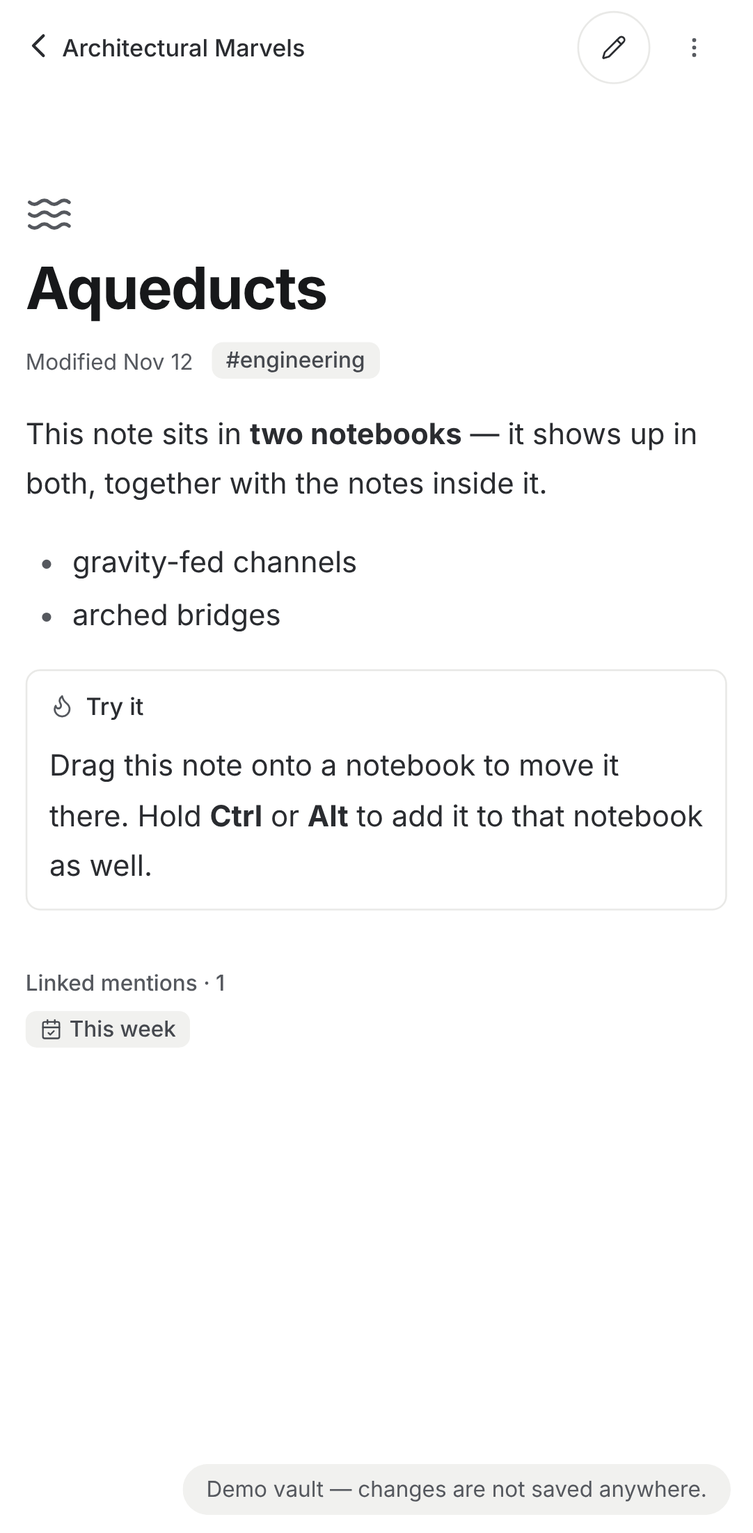
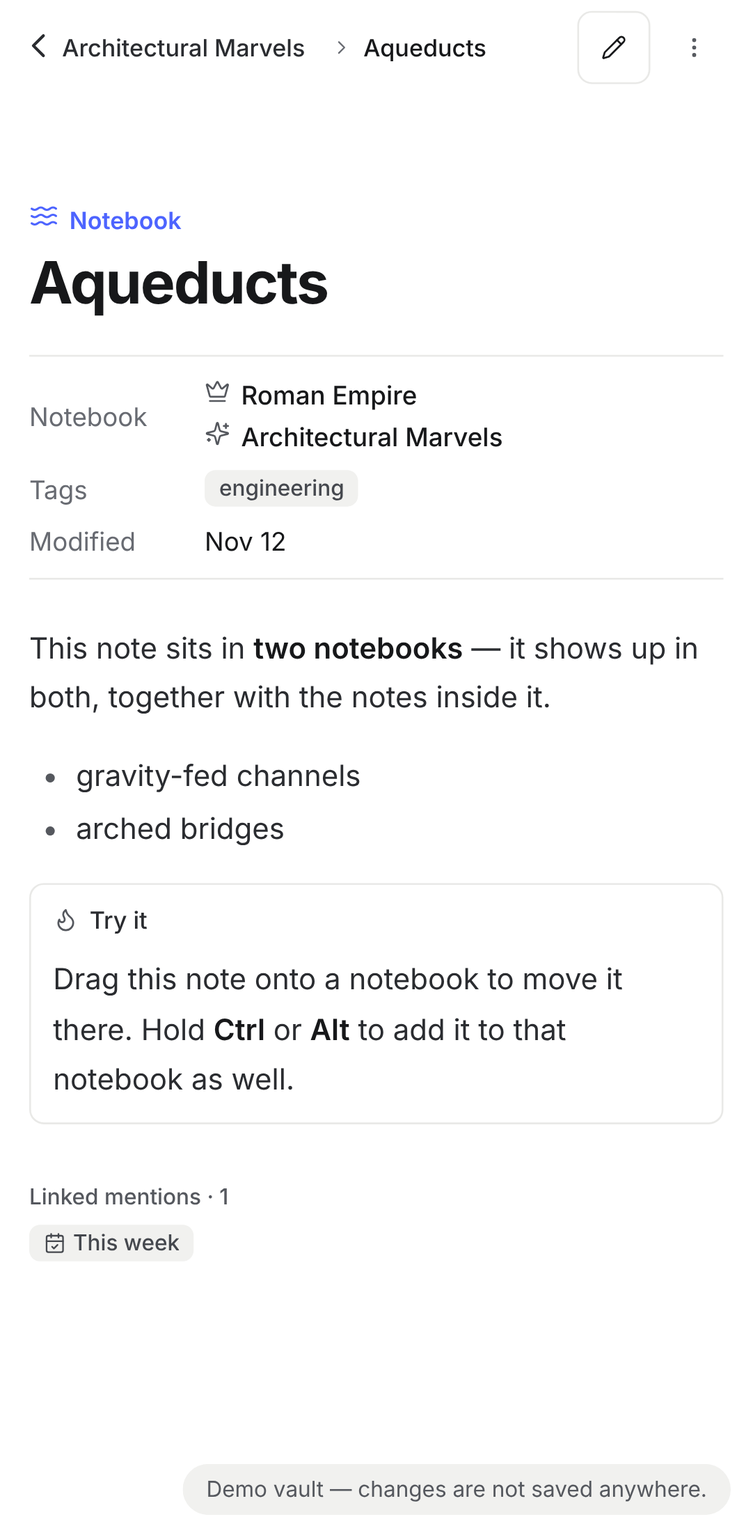
Restyle stage 6: the note
Over the title, what the note is (Note, Notebook or Daily note) in the
accent with its icon; a click picks another icon, as the big icon did.
The title is 40px bold (32px on a phone). Reading shows the note's facts
under it between two hairlines: its notebook, its tags, its tasks done
as a bar and words, when it changed. The header's path ends with the
note's own name, its crumbs split by chevrons; Edit and the +N chip get
the controls' corners. Headings track tighter, bold is 600 in the ink,
inline code sits on a quiet plate. The page is 720px with 40px on top.

Tests: the title is 40px; the path is read by its links; reading checks
the facts' rows; a new test covers the type label and the tasks bar.

Claude-Session: https://claude.ai/code/session_01FMk1W3xjGAnUwDM3D7HQLZ

diff --git a/web/src/css/app.css b/web/src/css/app.css
@@ -143,8 +143,11 @@ button.clickable-icon.wb-icon:hover { background: var(--hover-bg); color: var(--
 .sn-editor-path > a { min-width: 1.5em; overflow: hidden; text-overflow: ellipsis; white-space: nowrap; }
 a.sn-editor-crumb { color: var(--muted); text-decoration: none; }
 a.sn-editor-crumb:hover { color: var(--ink); text-decoration: underline; }
-.sn-editor-crumb-sep { flex: none; padding: 0 var(--sp-4); color: var(--faint); }
-button.sn-editor-places { flex: none; height: 20px; margin-left: var(--sp-4); padding: 0 var(--sp-8); border: 0; border-radius: var(--r-pill); background: var(--panel); color: var(--muted); font-size: var(--fs-sm); font-variant-numeric: tabular-nums; cursor: pointer; }
+.sn-editor-crumb-sep { flex: none; display: inline-flex; align-self: center; padding: 0 var(--sp-4); color: var(--faint); }
+.sn-editor-crumb-sep svg { width: var(--icon-xs); height: var(--icon-xs); }
+/* the note itself, last in the path: plain, in the ink, the first to give way (restyle RS-36) */
+.sn-editor-self { flex: 0 8 auto; min-width: 1.5em; overflow: hidden; text-overflow: ellipsis; white-space: nowrap; color: var(--ink); font-weight: var(--fw-medium); }
+button.sn-editor-places { flex: none; height: 20px; margin-left: var(--sp-4); padding: 0 var(--sp-8); border: 0; border-radius: var(--r-xs); background: var(--panel); color: var(--muted); font-size: var(--fs-sm); font-variant-numeric: tabular-nums; cursor: pointer; }
 button.sn-editor-places:hover { background: var(--accent-soft); color: var(--accent); }
 /* a phone: "‹ Its notebook" instead of the path, the ×, and "+N" (which moves into ⋮) */
 a.sn-editor-back { display: none; min-width: 0; align-items: center; gap: var(--sp-2); margin-left: calc(var(--sp-6) * -1); padding: var(--sp-4) var(--sp-8) var(--sp-4) var(--sp-2); border-radius: var(--r-s); color: var(--fg); font-weight: var(--fw-medium); text-decoration: none; }
@@ -158,7 +161,7 @@ a.sn-editor-back:active { background: var(--hover-bg); }
 /* the note reads at 16px in a column of about 75 characters (600px of text inside the padding) */
 /* the note's one labelled action: Edit while reading, Done (blue) while editing (editor.js) */
 button.sn-mode-btn { flex: none; display: inline-flex; align-items: center; gap: var(--sp-6); height: var(--ctl-l); margin: 0 var(--sp-2) 0 var(--sp-6); padding: 0 var(--sp-12) 0 var(--sp-10);
-  border: 1px solid var(--line); border-radius: var(--r-pill); background: var(--win); color: var(--fg); font-size: var(--fs-ui); font-weight: var(--fw-medium); cursor: pointer; }
+  border: 1px solid var(--line); border-radius: var(--r-s); background: var(--win); color: var(--ink); font-size: var(--fs-ui); font-weight: var(--fw-medium); cursor: pointer; }
 button.sn-mode-btn:hover { background: var(--hover-bg); }
 button.sn-mode-btn svg { display: block; width: var(--icon-s); height: var(--icon-s); } /* a block, so the icon sits in the middle, not on the text's baseline */
 button.sn-mode-btn.is-editing { border-color: transparent; background: var(--cta); color: var(--on-accent); }
@@ -166,15 +169,24 @@ button.sn-mode-btn.is-editing:hover { background: var(--cta-hover); }
 @container (max-width: 640px) { button.sn-mode-btn { width: 30px; padding: 0; justify-content: center; } .sn-mode-label { display: none; } }
 /* reading keeps the room of the editing toolbar above the note, so its title stays put when editing starts */
 .sn-editor.is-read .sn-editor-scroll { padding-top: var(--ed-toolbar-h, var(--ctl-touch)); } /* until a toolbar is measured, its min-height (writing.css) */
-/* reading: one quiet line under the title in place of Properties, and no rule between it and the text (editor-toolbar.js infoLine) */
-.sn-info { display: flex; flex-wrap: wrap; align-items: center; gap: var(--sp-6); min-height: 22px; margin: calc(var(--sp-4) * -1) 0 var(--sp-16); font-size: var(--fs-sm); color: var(--muted); }
-.sn-info-date { margin-right: var(--sp-4); }
+/* reading: the note's facts under the title, a key and its value on each line between two hairlines (editor-toolbar.js infoLine, restyle RS-41) */
+.sn-facts { display: grid; grid-template-columns: 120px minmax(0, 1fr); row-gap: var(--sp-10); align-items: center; margin: 0 0 var(--sp-24); padding: var(--sp-12) 0; border-block: 1px solid var(--line); font-size: var(--fs-md); }
+.sn-facts dt { color: var(--faint); }
+.sn-facts dd { margin: 0; display: flex; flex-wrap: wrap; align-items: center; gap: var(--sp-6) var(--sp-10); min-width: 0; color: var(--ink); }
+a.sn-facts-place { display: inline-flex; align-items: center; gap: var(--sp-6); min-width: 0; color: var(--ink); font-weight: var(--fw-medium); text-decoration: none; }
+a.sn-facts-place:hover { text-decoration: underline; }
+a.sn-facts-place svg { flex: none; width: var(--icon-s); height: var(--icon-s); color: var(--muted); }
+/* the tasks done: a bar of 96px, the accent for the part done, beside the words */
+.sn-facts-bar { display: flex; width: 96px; height: 6px; border-radius: var(--r-pill); background: var(--sel); overflow: hidden; }
+.sn-facts-bar > span { border-radius: var(--r-pill); background: var(--cta); }
+@media (max-width: 820px) { .sn-facts { grid-template-columns: 96px minmax(0, 1fr); } }
 .sn-props-head, .sn-editor-foot h4 { font-size: var(--fs-sm); font-weight: var(--fw-medium); color: var(--muted); }
 /* a table being read keeps the room editing leaves on its right for "+ column" (writing.css .sn-table-host), so it doesn't widen and re-split its columns */
 .sn-reading:not(.sn-live) .sn-table-wrap { margin-right: 17px; }
 
 /* Rendered Markdown: black bold headings, grey quotes, monospace code */
-.markdown-rendered :is(h1, h2, h3, h4, h5, h6) { color: var(--ink); letter-spacing: -.01em; }
+.markdown-rendered :is(h1, h2, h3, h4, h5, h6) { color: var(--ink); font-weight: var(--fw-bold); letter-spacing: var(--ls-head); }
+.markdown-rendered :is(strong, b) { color: var(--ink); font-weight: var(--fw-semibold); }
 .markdown-rendered :is(ul, ol) li::marker { color: var(--muted); }
 .markdown-rendered a:where(:not(.tag)) { color: var(--accent); }
 /* the grey chip is for inline code only: inside a code block the text sits on the block itself */
@@ -295,7 +307,7 @@ button.sn-row-enter:hover, .sn-row:focus-visible button.sn-row-enter { backgroun
   .sn-main { grid-column: 1; }
     .sn-editor.win { margin-top: 0; border-radius: 0; border: 0; } /* the note over the board fills the screen */
   .sn-page { padding: var(--sp-12) var(--sp-14) var(--sp-48); }
-  .sn-editor-page { padding: var(--sp-12) var(--sp-14) 40vh; }
+  .sn-editor-page { padding: var(--sp-16) var(--sp-16) 40vh; }
 }
 
 /* ---------- Touch screens: a bottom bar on phones, and targets a finger can hit */
@@ -323,6 +335,8 @@ button.sn-row-enter:hover, .sn-row:focus-visible button.sn-row-enter { backgroun
   /* (the table + buttons are already absolute, under and beside the table: making them relative piled them up in a corner) */
   :is(button.task-box, .sn-chip) { position: relative; }
   :is(button.task-box)::after { content: ""; position: absolute; inset: -10px; }
+  button.sn-kind { position: relative; }
+  button.sn-kind::after { content: ""; position: absolute; inset: -10px -4px; }
   :is(.sn-table-add-row, .sn-table-add-col)::after { content: ""; position: absolute; inset: -14px; }
   .sn-chip::after { content: ""; position: absolute; inset: -8px -2px; }
   /* buttons a finger can hit: 40px at least, the drawing inside them as it was (spec UI-9) */

diff --git a/web/src/js/ui/editor-toolbar.js b/web/src/js/ui/editor-toolbar.js
@@ -12,7 +12,8 @@ import { $, h, ic, isMod, setIcon } from "./dom.js";
 import { Menu } from "./ui.js";
 import { addTags, fmTagList, promptAddParent, promptIcon, removeParent, removeTag, templateFor } from "./actions.js";
 import { formatDate, parentChip } from "./cards.js";
-import { openTagView } from "./board.js";
+import { openTagView, setTarget } from "./board.js";
+import { cardTaskProgress } from "../services/tasks.js";
 import { closeEditor, openEditor, renderEditor, saveEditor } from "./editor.js";
 import { liveActivateEnd } from "./live-preview.js";
 import { editorTable, editorTableKey, editorTableOp, tableMenu } from "./table-editor.js";
@@ -108,15 +109,26 @@ export function renderEditorProps() {
     foot.append(box);
   }
 }
-/** The reading view's line under the title, in place of Properties: when the note changed, its tags (each opens its list)
-   and a notebook it names that doesn't exist. Its notebooks are in the header; the rest of the properties are one click
-   away, in the editing view. */
+/** The reading view's facts under the title, in place of Properties (restyle RS-41 to RS-43): where the note sits (its
+   notebooks, each opening its list, and a notebook it names that doesn't exist), its tags (each opens its list), its tasks
+   done and when it changed. A row with nothing to say is left out; the rest of the properties are in the editing view. */
 function infoLine(path, n) {
-  const line = h("div", { cls: "sn-info" });
-  line.append(h("span", { cls: "sn-info-date", text: t("modifiedAt", { date: formatDate(n.mtime || 0) }), title: new Date(n.mtime || 0).toLocaleString(LANG) }));
-  for (const u of graph.unresolvedParentsOf(path)) line.append(h("span", { cls: "sn-chip is-s is-missing", title: t("parentMissing") }, ic("sn-chip-icon", "alert-triangle"), h("span", { text: u })));
-  if (!n.fmError) for (const tg of fmTagList(n.fm)) line.append(h("button", { cls: "sn-chip is-s sn-info-tag", type: "button", text: "#" + tg, onClick: () => openTagView(tg) }));
-  return line;
+  const dl = h("dl", { cls: "sn-facts" });
+  const row = (key, ...val) => dl.append(h("dt", { text: key }), h("dd", {}, ...val));
+  const parents = graph.parentsOf(path).filter((p) => graph.has(p)), missing = graph.unresolvedParentsOf(path);
+  const place = (p) => h("a", { cls: "sn-facts-place", href: "#", onClick: (e) => { e.preventDefault(); setTarget(p); } }, ic("", p ? cardIcon(p) || "folder" : "home", "folder"), h("span", { text: p ? baseName(p) : t("allCards") }));
+  row(t("factNotebook"), ...(parents.length || missing.length ? parents.map(place) : [place(null)]),
+    ...missing.map((u) => h("span", { cls: "sn-chip is-s is-missing", title: t("parentMissing") }, ic("sn-chip-icon", "alert-triangle"), h("span", { text: u }))));
+  const tags = n.fmError ? [] : fmTagList(n.fm);
+  if (tags.length) row(t("factTags"), ...tags.map((tg) => h("button", { cls: "sn-chip is-s sn-facts-tag", type: "button", text: tg, onClick: () => openTagView(tg) })));
+  const prog = cardTaskProgress(path);
+  if (prog) {
+    const bar = h("span", { cls: "sn-facts-bar", "aria-hidden": "true" }, h("span", {}));
+    bar.firstChild.style.width = Math.round((prog.done / prog.n) * 100) + "%";
+    row(t("factTasks"), bar, h("span", { text: t("factDone", prog) }));
+  }
+  row(t("factModified"), h("span", { text: formatDate(n.mtime || 0), title: new Date(n.mtime || 0).toLocaleString(LANG) }));
+  return dl;
 }
 export function editorKeys(e) {
   const ta = e.target;

diff --git a/web/src/js/core/strings.js b/web/src/js/core/strings.js
@@ -13,7 +13,8 @@ export const STR = {
     icon: "Icon",
     composerPlaceholder: "Start typing a new note…", composerHint: "Enter — create · Shift+Enter — new line · the first line becomes the title",
     cardsCount: ["{n} note", "{n} notes"], listKindNotebook: "Notebook", listKindTag: "Tag", listKindSearch: "Search", listNotes: "Notes",
-    rowTasks: ["{done}/{n} task", "{done}/{n} tasks"], cardsOf: "{shown} of {n}", filteredSuffix: "{count} · filtered",
+    rowTasks: ["{done}/{n} task", "{done}/{n} tasks"], kindNote: "Note", kindNotebook: "Notebook", kindDaily: "Daily note",
+    factNotebook: "Notebook", factTags: "Tags", factTasks: "Tasks", factModified: "Modified", factDone: "{done} of {n} done", cardsOf: "{shown} of {n}", filteredSuffix: "{count} · filtered",
     parentMissing: "Parent note not found",
     noCards: "No notes here yet — start typing to create one.", noMatches: "No notes match the filter.",
     repeatsSkipped: ["{n} repeated note is hidden (several parents or a cycle)", "{n} repeated notes are hidden (several parents or a cycle)"],
@@ -96,7 +97,8 @@ export const STR = {
     icon: "Иконка",
     composerPlaceholder: "Начните печатать новую заметку…", composerHint: "Enter — создать · Shift+Enter — новая строка · первая строка станет заголовком",
     cardsCount: ["{n} заметка", "{n} заметки", "{n} заметок"], listKindNotebook: "Блокнот", listKindTag: "Тег", listKindSearch: "Поиск", listNotes: "Заметки",
-    rowTasks: ["{done}/{n} задача", "{done}/{n} задачи", "{done}/{n} задач"], cardsOf: "{shown} из {n}", filteredSuffix: "{count} · фильтр",
+    rowTasks: ["{done}/{n} задача", "{done}/{n} задачи", "{done}/{n} задач"], kindNote: "Заметка", kindNotebook: "Блокнот", kindDaily: "Заметка дня",
+    factNotebook: "Блокнот", factTags: "Теги", factTasks: "Задачи", factModified: "Изменено", factDone: "{done} из {n} выполнено", cardsOf: "{shown} из {n}", filteredSuffix: "{count} · фильтр",
     parentMissing: "Родительская заметка не найдена",
     noCards: "Здесь пока нет заметок — начните печатать, чтобы создать.", noMatches: "Нет заметок под фильтр.",
     repeatsSkipped: ["{n} повтор скрыт (несколько родителей или цикл)", "{n} повтора скрыто (несколько родителей или цикл)", "{n} повторов скрыто (несколько родителей или цикл)"],

diff --git a/web/src/js/ui/editor.js b/web/src/js/ui/editor.js
@@ -166,13 +166,14 @@ function notebookPath(path) {
   const back = h("a", { cls: "sn-editor-back", href: "#", title: nearName, onClick: (e) => { e.preventDefault(); closeEditor(); setTarget(near); } },
     ic("", "chevron-left"), h("span", { text: nearName }));
   places.forEach((p, i) => {
-    if (i) box.append(h("span", { cls: "sn-editor-crumb-sep", text: "/" }));
+    if (i) box.append(ic("sn-editor-crumb-sep", "chevron-right"));
     const name = p ? baseName(p) : t("allCards");
     const a = h("a", { cls: "sn-editor-crumb", href: "#", text: name, title: name, onClick: (e) => { e.preventDefault(); setTarget(p); } });
     a.style.flexShrink = String((places.length - i) * 4);
     box.append(a);
   });
-  const wrap = h("div", { cls: "sn-editor-where" }, back, box);
+  // then the note's own name, plain and last: it gives way first when the header is narrow (restyle RS-36)
+  const wrap = h("div", { cls: "sn-editor-where" }, back, box, ic("sn-editor-crumb-sep sn-editor-self-sep", "chevron-right"), h("span", { cls: "sn-editor-self", text: baseName(path) }));
   if (others.length) {
     wrap.append(h("button", { cls: "sn-editor-places", type: "button", title: t("alsoIn"), text: "+" + others.length, onClick: (e) => {
       const m = new Menu();
@@ -260,11 +261,10 @@ export function renderEditor() {
   if (!n) { page.append(h("div", { cls: "sn-editor-empty", text: t("noteGone") })); return; }
 
   if (editor.mode !== "source") {
-    const badge = ic("sn-editor-badge", cardIcon(path) || "file-text", "file-text");
-    if (!cardIcon(path)) badge.style.opacity = ".45";
-    badge.title = t("menuIcon");
-    badge.addEventListener("click", () => promptIcon([path]));
-    page.append(badge);
+    // what the note is, in the accent over its title: a notebook (it holds notes), a daily note, or a note. Its icon
+    // leads, and a click picks another (restyle RS-39)
+    const kind = graph.childrenOf(path).length ? t("kindNotebook") : path.startsWith("daily notes/") ? t("kindDaily") : t("kindNote");
+    page.append(h("button", { cls: "sn-kind", type: "button", title: t("menuIcon"), onClick: () => promptIcon([path]) }, ic("", cardIcon(path) || "file-text", "file-text"), h("span", { text: kind })));
     const title = h("textarea", { cls: "sn-inline-title", rows: "1", spellcheck: "false" });
     title.value = baseName(path);
     const growT = () => { title.style.height = "auto"; title.style.height = title.scrollHeight + "px"; };

diff --git a/web/src/css/base.css b/web/src/css/base.css
@@ -36,8 +36,8 @@ body {
   --fw-regular: 400; --fw-medium: 500; --fw-semibold: 600; --fw-bold: 700;
   /* line heights: headings and titles, the interface, a note's text */
   --lh-tight: 1.25; --lh-ui: 1.5; --lh-text: 1.7;
-  /* tracking: headings at 24px and the list's title */
-  --ls-head: -0.02em;
+  /* tracking: headings at 24px and the list's title; the page's title (a note's, the agenda's), with its size and line */
+  --ls-head: -0.02em; --ls-title: -0.025em; --fs-title: 40px; --lh-title: 1.15;
   /* the spacing scale, named by its size in pixels: every padding, margin and gap uses it (besides 0, 1px hairlines
      and the few measured offsets listed in tests/architecture.test.mjs) */
   --sp-2: 2px; --sp-4: 4px; --sp-6: 6px; --sp-8: 8px; --sp-10: 10px; --sp-12: 12px; --sp-14: 14px; --sp-16: 16px;
@@ -86,6 +86,8 @@ body {
   font-variant-ligatures: none;
   overflow: hidden;
 }
+/* the page's title is 32px on a phone (restyle RS-40) */
+@media (max-width: 820px) { body { --fs-title: 32px; } }
 ::selection { background: var(--sel); }
 ::-webkit-scrollbar { width: 12px; height: 12px; background: transparent; }
 ::-webkit-scrollbar-thumb { background: var(--scrollbar-thumb); border-radius: var(--r-m); border: 3px solid transparent; background-clip: padding-box; }
@@ -166,7 +168,7 @@ button.task-box:focus-visible { outline: 2px solid var(--accent); outline-offset
 .markdown-rendered li.is-state-done { color: var(--faint); }
 .markdown-rendered li.is-state-fwd { color: var(--muted); }
 .markdown-rendered li.is-state-cancel { color: var(--faint); text-decoration: line-through; }
-.markdown-rendered h1, .markdown-rendered h2, .markdown-rendered h3, .markdown-rendered h4, .markdown-rendered h5, .markdown-rendered h6 { line-height: var(--lh-tight); margin: 1.2em 0 .5em; }
+.markdown-rendered h1, .markdown-rendered h2, .markdown-rendered h3, .markdown-rendered h4, .markdown-rendered h5, .markdown-rendered h6 { line-height: var(--lh-tight); margin: 1.5em 0 .5em; }
 .markdown-rendered h1 { font-size: var(--h1-size); } .markdown-rendered h2 { font-size: var(--h2-size); } .markdown-rendered h3 { font-size: var(--h3-size); }
 .markdown-rendered h4 { font-size: var(--h4-size); } .markdown-rendered h5 { font-size: var(--h5-size); } .markdown-rendered h6 { font-size: var(--h6-size); }
 .markdown-rendered pre { overflow-x: auto; }

diff --git a/web/src/css/chrome.css b/web/src/css/chrome.css
@@ -27,11 +27,13 @@
 .sn-editor-head { flex: 0 0 auto; display: flex; align-items: center; gap: var(--sp-2); height: 52px; padding: 0 var(--sp-12) 0 var(--sp-14); border-bottom: 0; }
 .sn-save-state.is-dirty { color: var(--muted); }
 .sn-editor-scroll { flex: 1 1 auto; overflow-y: auto; }
-.sn-editor-page { margin: 0 auto; max-width: 680px; padding: var(--sp-16) var(--sp-40) 40vh; }
+.sn-editor-page { margin: 0 auto; max-width: 720px; padding: var(--sp-40) var(--sp-32) 40vh; }
 #app.editor-wide .sn-editor-page { padding-top: var(--sp-48); }
-.sn-editor-badge { display: flex; margin-bottom: var(--sp-8); width: max-content; border-radius: var(--r-xs); cursor: default; color: var(--muted); }
-.sn-editor-badge:hover { background: var(--panel); }
-.sn-inline-title { display: block; width: 100%; padding: 0; border: 0; background: transparent; resize: none; overflow: hidden; font-weight: var(--fw-bold); font-size: 32px; line-height: var(--lh-tight); letter-spacing: -.02em; color: var(--ink); margin: var(--sp-6) 0 var(--sp-12); }
+/* what the note is, over its title: its icon and a word in the accent; a click picks another icon (restyle RS-39) */
+button.sn-kind, button.sn-kind:not(.clickable-icon) { display: inline-flex; align-items: center; gap: var(--sp-6); height: auto; padding: var(--sp-2) var(--sp-4); margin-inline-start: calc(var(--sp-4) * -1); border: 0; border-radius: var(--r-xs); background: transparent; color: var(--accent); font-size: var(--fs-ui); font-weight: var(--fw-semibold); cursor: pointer; }
+button.sn-kind:hover { background: var(--accent-soft); }
+button.sn-kind svg { width: var(--icon-m); height: var(--icon-m); }
+.sn-inline-title { display: block; width: 100%; padding: 0; border: 0; background: transparent; resize: none; overflow: hidden; font-weight: var(--fw-bold); font-size: var(--fs-title); line-height: var(--lh-title); letter-spacing: var(--ls-title); color: var(--ink); margin: var(--sp-6) 0 var(--sp-20); }
 /* Properties: the note's frontmatter */
 .sn-props-head { display: flex; align-items: center; gap: var(--sp-6); margin-bottom: var(--sp-6); cursor: default; width: max-content; }
 .sn-props-head svg { width: var(--icon-xs); height: var(--icon-xs); color: var(--faint); transition: transform var(--dur-1) var(--ease); }

diff --git a/web/src/css/frame.css b/web/src/css/frame.css
@@ -86,7 +86,8 @@ button.clickable-icon.wb-icon:hover { border-color: var(--faint); color: var(--f
 
 /* Rendered markdown: org-like heading colours, mono details */
 .markdown-rendered a { cursor: pointer; text-decoration-color: color-mix(in srgb, var(--accent) 40%, transparent); }
-.markdown-rendered code { font-size: .92em; padding: 0 var(--sp-4); border-radius: var(--r-xs); font-family: var(--font-code); color: var(--ink); background: var(--code-bg); }
+/* inline code: a quiet plate, 13px in a 16px text (restyle RS-47) */
+.markdown-rendered code { font-size: .8125em; padding: var(--sp-2) var(--sp-6); border-radius: var(--r-xs); font-family: var(--font-code); color: var(--muted); background: var(--panel); }
 .markdown-rendered .code-block { margin-block: 0 1em; border: 1px solid var(--line); background: var(--win); overflow: hidden; }
 .markdown-rendered .code-head { display: flex; align-items: center; gap: var(--sp-6); padding: var(--sp-8) var(--sp-12) var(--sp-4); color: var(--fg); font-size: var(--fs-ui); }
 .markdown-rendered .code-badge { flex: none; display: flex; align-items: flex-end; justify-content: flex-end; width: 14px; height: 14px; padding: 0 1px; border-radius: 2px; font-size: 7.5px; font-weight: var(--fw-semibold); line-height: var(--lh-tight); }

diff --git a/docs/restyle-specification.md b/docs/restyle-specification.md
@@ -197,9 +197,9 @@
 
 | № | Требование | Проверка | Статус |
 |---|---|---|---|
-| RS-35 | Шапка (`.sn-editor-head`): высота 52 px, поля 10 и 16 px. Слева — кнопки закрытия и разворота, как сейчас (на макете их нет, RS-INV-1). | Обе кнопки работают. | |
-| RS-36 | Путь (`.sn-editor-path`): 13 px, блокноты `--faint`, между ними значок `chevron-right` 12 px `--faint` вместо текстового разделителя (`.sn-editor-crumb-sep`); последним идёт название самой заметки — `--ink`, 500, не ссылка, обрезается многоточием. «+N» (`button.sn-editor-places`): чип с углом `--r-xs`. | Тест: последний пункт пути равен названию заметки. | |
-| RS-37 | Кнопка режима (`button.sn-mode-btn`, `app.css:158`): высота 32 px, угол `--r-s` (сейчас пилюля), рамка `--line`, текст `--ink` 13 px 500, значок 14 px. В правке — фон `--cta`, как сейчас. Кнопка «⋮» — 32 px, угол `--r-s`. | Замер. | |
+| RS-35 | Шапка (`.sn-editor-head`): высота 52 px, поля 10 и 16 px. Слева — кнопки закрытия и разворота, как сейчас (на макете их нет, RS-INV-1). Высота 52 px; поля прежние, 14 и 12 px: правый отступ 12 px закреплён UI-7 вместе с панелью форматирования. | Обе кнопки работают. | ✅ |
+| RS-36 | Путь (`.sn-editor-path`): 13 px, блокноты `--faint`, между ними значок `chevron-right` 12 px `--faint` вместо текстового разделителя (`.sn-editor-crumb-sep`); последним идёт название самой заметки — `--ink`, 500, не ссылка, обрезается многоточием. «+N» (`button.sn-editor-places`): чип с углом `--r-xs`. Сделано (`editor.js`): разделители — значки `chevron-right`, название заметки — `.sn-editor-self` после пути, вне `.sn-editor-path`; на телефоне оно стоит после «‹ блокнот». Тесты пути в `ui-list` читают текст ссылок, а не всего пути. | Тест: последний пункт пути равен названию заметки. | ✅ |
+| RS-37 | Кнопка режима (`button.sn-mode-btn`, `app.css:158`): высота 32 px, угол `--r-s` (сейчас пилюля), рамка `--line`, текст `--ink` 13 px 500, значок 14 px. В правке — фон `--cta`, как сейчас. Кнопка «⋮» — 32 px, угол `--r-s`. Сделано. | Замер. | ✅ |
 
 ### 8.2. Заголовок и свойства
 
@@ -207,22 +207,22 @@
 
 | № | Требование | Проверка | Статус |
 |---|---|---|---|
-| RS-38 | Страница (`.sn-editor-page`): ширина до 720 px (сейчас 680), поля 40 px сверху и 32 px по бокам (сейчас 16 и 40); колонка текста 656 px. На телефоне — 16 px по бокам и сверху. | Замер; `tests/layout.test.mjs` и `tests/note-layout.test.mjs` проходят с обновлёнными числами. | |
-| RS-39 | Вместо крупного значка — подпись типа (`.sn-kind`, кнопка): значок заметки 16 px и слово, 13 px, 600, цвет `--accent`, шаг 6 px. Слово: «Notebook», если у заметки есть вложенные; «Daily note» для заметок из `daily notes/`; иначе «Note». Нажатие открывает выбор значка, как делал прежний значок; подсказка та же (`menuIcon`). Без заданного значка показывается `file-text` в полную силу. Класс `sn-editor-badge` выводится из употребления. | Тест слова для трёх случаев на обоих языках; выбор значка открывается. | |
-| RS-40 | Название (`.sn-inline-title`, `chrome.css:185`): `--fs-title` (40 px; 32 px на телефоне), 700, `--ls-title`, `--lh-title`, `--ink`; 6 px над, 20 px под. | `tests/typography.test.mjs`: ожидаемые размеры `["40px", "28px", "24px", "20px", "16px", "16px"]`. | |
-| RS-41 | Под названием в чтении — блок свойств (`dl.sn-facts`) вместо строки `.sn-info`: сетка из двух колонок, 120 px и остаток (на телефоне 96 px), шаг строк 10 px, поля 12 px сверху и снизу, линии 1 px `--line` сверху и снизу, 24 px до текста; 14 px. Ключ (`dt`) — `--faint`, значение (`dd`) — `--ink`. | Замер сетки и линий. | |
-| RS-42 | Строки блока, в этом порядке; строка без данных не показывается. **Notebook**: значок 14 px и название каждого блокнота-родителя ссылкой на его список, 500; у заметки верхнего уровня — «All notes»; отсутствующий родитель — чип `is-missing`, как сейчас. **Tags**: чипы тегов, нажатие открывает вид по тегу. **Tasks**: полоса прогресса и «2 of 8 done». **Modified**: относительная дата, полная — в подсказке. | Тест на заметке со всеми данными и на заметке без тегов и задач (две строки). | |
-| RS-43 | Полоса прогресса: 96 × 6 px, угол 3 px (волосяной радиус записывается как половина высоты через `--r-pill`), дорожка `--sel`, заливка `--cta` шириной в долю выполненных. Рядом текст; число выполненных считается той же функцией, что прогресс в строке списка. Полоса скрыта от экранных дикторов, текст читается. | Тест: ширина заливки 25 % при 2 из 8. | |
-| RS-44 | В правке вместо блока свойств остаётся панель «Properties» (`.sn-props`) с прежним поведением и новым видом: та же сетка 120 px и остаток, те же линии, ключи `--faint`. | Снимок правки. | |
+| RS-38 | Страница (`.sn-editor-page`): ширина до 720 px (сейчас 680), поля 40 px сверху и 32 px по бокам (сейчас 16 и 40); колонка текста 656 px. На телефоне — 16 px по бокам и сверху. Сделано; на телефоне 16 px со всех сторон. | Замер; `tests/layout.test.mjs` и `tests/note-layout.test.mjs` проходят с обновлёнными числами. | ✅ |
+| RS-39 | Вместо крупного значка — подпись типа (`.sn-kind`, кнопка): значок заметки 16 px и слово, 13 px, 600, цвет `--accent`, шаг 6 px. Слово: «Notebook», если у заметки есть вложенные; «Daily note» для заметок из `daily notes/`; иначе «Note». Нажатие открывает выбор значка, как делал прежний значок; подсказка та же (`menuIcon`). Без заданного значка показывается `file-text` в полную силу. Класс `sn-editor-badge` выводится из употребления. Сделано: `button.sn-kind`; на сенсорном экране у неё невидимая область нажатия (UI-9). Новый тест в `tests/ui-note.test.mjs`. | Тест слова для трёх случаев на обоих языках; выбор значка открывается. | ✅ |
+| RS-40 | Название (`.sn-inline-title`, `chrome.css:185`): `--fs-title` (40 px; 32 px на телефоне), 700, `--ls-title`, `--lh-title`, `--ink`; 6 px над, 20 px под. Сделано: переменные `--fs-title`, `--lh-title`, `--ls-title`; на телефоне 32 px. | `tests/typography.test.mjs`: ожидаемые размеры `["40px", "28px", "24px", "20px", "16px", "16px"]`. | ✅ |
+| RS-41 | Под названием в чтении — блок свойств (`dl.sn-facts`) вместо строки `.sn-info`: сетка из двух колонок, 120 px и остаток (на телефоне 96 px), шаг строк 10 px, поля 12 px сверху и снизу, линии 1 px `--line` сверху и снизу, 24 px до текста; 14 px. Ключ (`dt`) — `--faint`, значение (`dd`) — `--ink`. Сделано: `dl.sn-facts` в `editor-toolbar.js` (функция `infoLine`). | Замер сетки и линий. | ✅ |
+| RS-42 | Строки блока, в этом порядке; строка без данных не показывается. **Notebook**: значок 14 px и название каждого блокнота-родителя ссылкой на его список, 500; у заметки верхнего уровня — «All notes»; отсутствующий родитель — чип `is-missing`, как сейчас. **Tags**: чипы тегов, нажатие открывает вид по тегу. **Tasks**: полоса прогресса и «2 of 8 done». **Modified**: относительная дата, полная — в подсказке. Сделано. Тест чтения в `tests/ui-note.test.mjs` теперь проверяет ключи строк, теги без решётки и отсутствующий блокнот. | Тест на заметке со всеми данными и на заметке без тегов и задач (две строки). | ✅ |
+| RS-43 | Полоса прогресса: 96 × 6 px, угол 3 px (волосяной радиус записывается как половина высоты через `--r-pill`), дорожка `--sel`, заливка `--cta` шириной в долю выполненных. Рядом текст; число выполненных считается той же функцией, что прогресс в строке списка. Полоса скрыта от экранных дикторов, текст читается. Сделано: тот же `cardTaskProgress`, что в строке списка; тест — доля 25 % при 1 из 4. | Тест: ширина заливки 25 % при 2 из 8. | ✅ |
+| RS-44 | В правке вместо блока свойств остаётся панель «Properties» (`.sn-props`) с прежним поведением и новым видом: та же сетка 120 px и остаток, те же линии, ключи `--faint`. Не сделано: в правке панель «Properties» пока прежнего вида. Её сетка — отдельная работа с полями ввода; отложено на этап 9. | Снимок правки. | 🟡 |
 
 ### 8.3. Текст
 
 | № | Требование | Проверка | Статус |
 |---|---|---|---|
-| RS-45 | Текст (`.sn-reading`): 16 px, `--lh-text` 1.7, `--fg`. Полужирное — 600, `--ink`. | Замер. | |
-| RS-46 | Заголовки заметки: размеры прежние (28, 24, 20, затем 16 px), 700, `--ls-head` (сейчас −0,01em, `app.css:175`), `--lh-tight`, `--ink`; отступы 1.5em сверху и 0.5em снизу (сейчас 1.2em и 0.5em, `base.css`). | `tests/typography.test.mjs`. | |
-| RS-47 | Клавиши и строчный код: плашка `--panel`, угол `--r-xs`, поля 2 и 6 px, 13 px, `--muted`. Строчный код остаётся моноширинным. | Замер. | |
-| RS-48 | Ссылки — `--accent`, без подчёркивания в покое, с подчёркиванием под указателем, как сейчас. | Снимок. | |
+| RS-45 | Текст (`.sn-reading`): 16 px, `--lh-text` 1.7, `--fg`. Полужирное — 600, `--ink`. Сделано. | Замер. | ✅ |
+| RS-46 | Заголовки заметки: размеры прежние (28, 24, 20, затем 16 px), 700, `--ls-head` (сейчас −0,01em, `app.css:175`), `--lh-tight`, `--ink`; отступы 1.5em сверху и 0.5em снизу (сейчас 1.2em и 0.5em, `base.css`). Сделано. | `tests/typography.test.mjs`. | ✅ |
+| RS-47 | Клавиши и строчный код: плашка `--panel`, угол `--r-xs`, поля 2 и 6 px, 13 px, `--muted`. Строчный код остаётся моноширинным. Сделано для строчного кода; отдельного вида клавиш в тексте заметки нет. | Замер. | ✅ |
+| RS-48 | Ссылки — `--accent`, без подчёркивания в покое, с подчёркиванием под указателем, как сейчас. Как было. | Снимок. | ✅ |
 
 ### 8.4. Задачи и чипы
 
